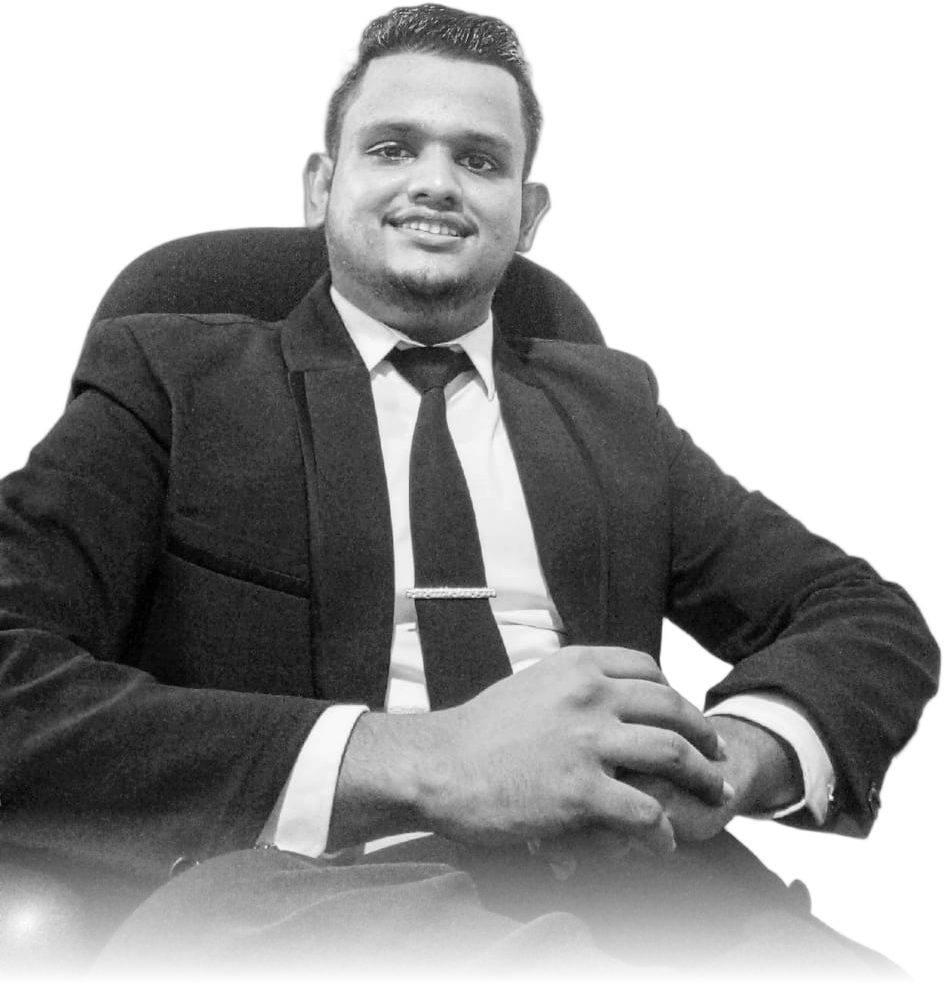
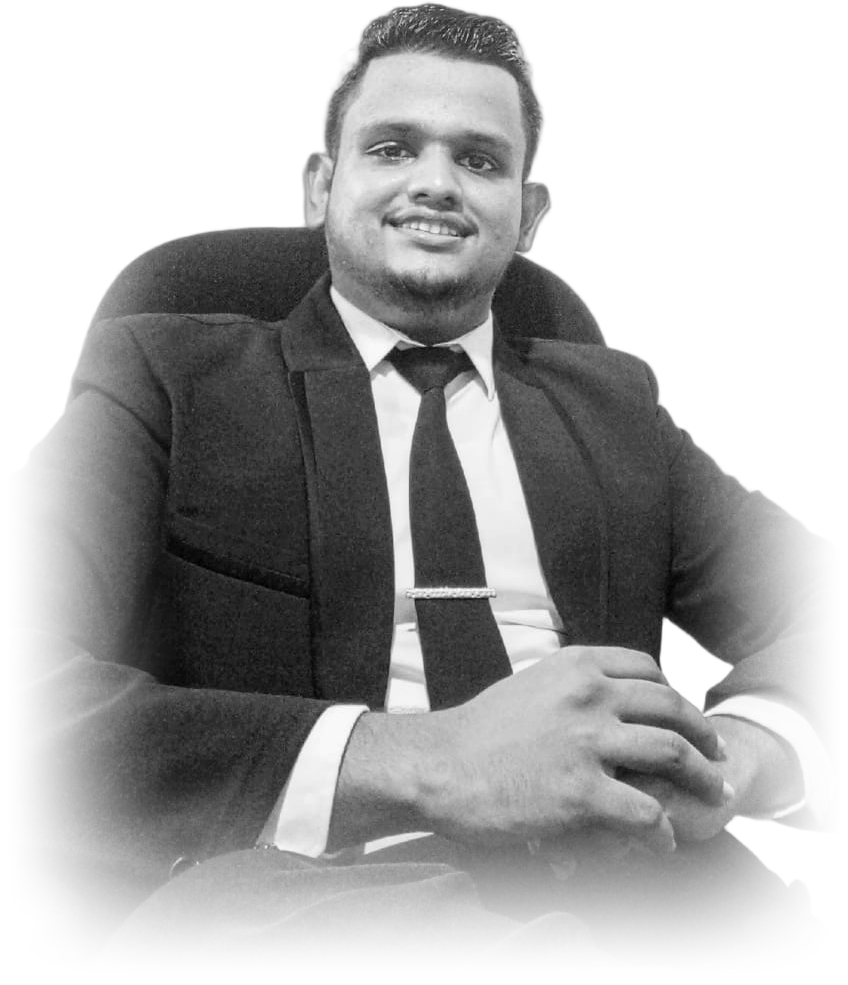
Centre the hero portrait with a symmetric crop and even edge fades
Claude-Session: https://claude.ai/code/session_01F9JYwoRXR7jThd1utj45qP

diff --git a/index.html b/index.html
@@ -71,7 +71,7 @@ img,video{display:block;max-width:100%}
 .name{position:absolute;left:0;right:0;top:15%;text-align:center;font-weight:800;font-size:clamp(84px,19vw,300px);line-height:.86;letter-spacing:-.065em;white-space:nowrap;will-change:transform;user-select:none}
 .name .l{display:inline-block;background:linear-gradient(180deg,var(--name-a) 10%,var(--name-b) 95%);-webkit-background-clip:text;background-clip:text;color:transparent;padding:0 .02em;opacity:0;transform:translateY(40%);filter:blur(14px);animation:rise 1.3s var(--ease) forwards}
 @keyframes rise{to{opacity:1;transform:none;filter:none}}
-.person{position:absolute;left:50%;bottom:0;width:min(560px,74vw);transform:translateX(-50%);will-change:transform;z-index:2}
+.person{position:absolute;left:50%;bottom:0;width:min(520px,70vw);transform:translateX(-50%);will-change:transform;z-index:2}
 .person img{width:100%;height:auto;opacity:0;transform:translateY(80px) scale(.96);animation:person 1.6s var(--ease) .7s forwards}
 @keyframes person{to{opacity:1;transform:none}}
 .corner{position:absolute;bottom:44px;z-index:3;font-size:15px;line-height:1.45;color:var(--sub);opacity:0;animation:up 1s var(--ease) forwards}
@@ -210,7 +210,7 @@ footer nav a:hover{color:var(--link)}
 @media (max-width:640px){
   .nav ul{display:none}
   .hero{min-height:600px;max-height:820px}
-  .name{top:39%;font-size:19vw}
+  .name{top:33%;font-size:19vw}
   .aura i:nth-child(1){width:120vw;height:120vw;left:-10vw;top:22%}
   .aura i:nth-child(2){width:80vw;height:80vw;left:30vw;top:40%}
   .person{width:86vw;bottom:92px}
@@ -256,7 +256,7 @@ footer nav a:hover{color:var(--link)}
   <div class="person" id="person">
     <picture>
       <source srcset="assets/chathura-cutout.webp" type="image/webp">
-      <img src="assets/chathura-cutout.png" alt="Chathura Dhananjaya Weerathunga" width="944" height="985">
+      <img src="assets/chathura-cutout.png" alt="Chathura Dhananjaya Weerathunga" width="848" height="985">
     </picture>
   </div>
   <div class="corner l"><b>Software engineer &amp; entrepreneur</b>Chathura Dhananjaya Weerathunga</div>
